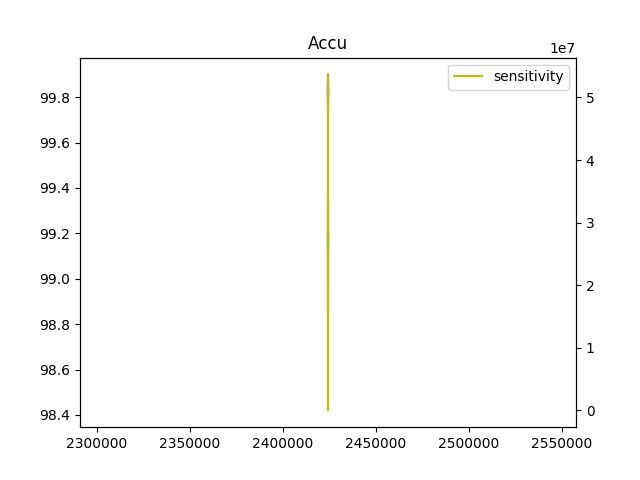
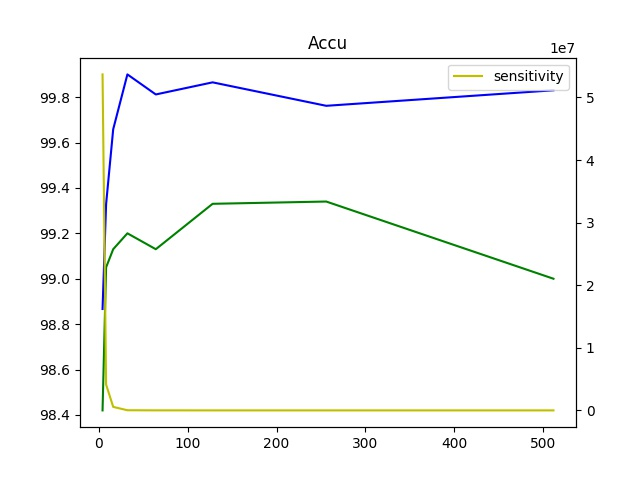
dkjf

diff --git a/hw1/1-3/1-3-3-2/plot.py b/hw1/1-3/1-3-3-2/plot.py
@@ -18,14 +18,15 @@ args = parser.parse_args()
 ############################################################
 dm.load_np('train','record/train.npy')
 dm.load_np('test','record/test.npy')
+x=[4,8,16,32,64,128,256,512]
 ############################################################
 #               plot loss                                  #
 ############################################################
 fig, ax1 = plt.subplots()
 ax2 = ax1.twinx()
-ax1.plot(dm.data['train'][:,0],dm.data['train'][:,1],c='b',label='train')
-ax1.plot(dm.data['test'][:,0],dm.data['test'][:,1],c='g',label='test')
-ax2.plot(dm.data['train'][:,0],dm.data['train'][:,3],c='y',label='sensitivity')
+ax1.plot(x,dm.data['train'][:,1],c='b',label='train')
+ax1.plot(x,dm.data['test'][:,1],c='g',label='test')
+ax2.plot(x,dm.data['train'][:,3],c='y',label='sensitivity')
 plt.title('Loss')
 plt.legend()
 plt.savefig(args.loss_output)
@@ -34,9 +35,9 @@ plt.savefig(args.loss_output)
 ############################################################
 fig, ax1 = plt.subplots()
 ax2 = ax1.twinx()
-ax1.plot(dm.data['train'][:,0],dm.data['train'][:,2],c='b',label='train')
-ax1.plot(dm.data['test'][:,0],dm.data['test'][:,2],c='g',label='test')
-ax2.plot(dm.data['train'][:,0],dm.data['train'][:,3],c='y',label='sensitivity')
+ax1.plot(x,dm.data['train'][:,2],c='b',label='train')
+ax1.plot(x,dm.data['test'][:,2],c='g',label='test')
+ax2.plot(x,dm.data['train'][:,3],c='y',label='sensitivity')
 plt.title('Accu')
 plt.legend()
 plt.savefig(args.accu_output)

diff --git a/hw1/1-3/1-3-3-2/train.py b/hw1/1-3/1-3-3-2/train.py
@@ -44,8 +44,8 @@ for epoch in range(EPOCH):
     #dm.val(cnn,'Train',dm.data['mnist'][0])
     #dm.val(cnn,'Val',dm.data['mnist'][1])
     print('-'*50)
-train_record=np.array([parameters]+dm.val(cnn,'Train',dm.data['mnist'][0])).reshape((1,4))
-test_record=np.array([parameters]+dm.val(cnn,'Val',dm.data['mnist'][1])).reshape((1,4))
+train_record=np.array([BATCH_SIZE]+dm.val(cnn,'Train',dm.data['mnist'][0])).reshape((1,4))
+test_record=np.array([BATCH_SIZE]+dm.val(cnn,'Val',dm.data['mnist'][1])).reshape((1,4))
 
 
 if not args.clear_record:
